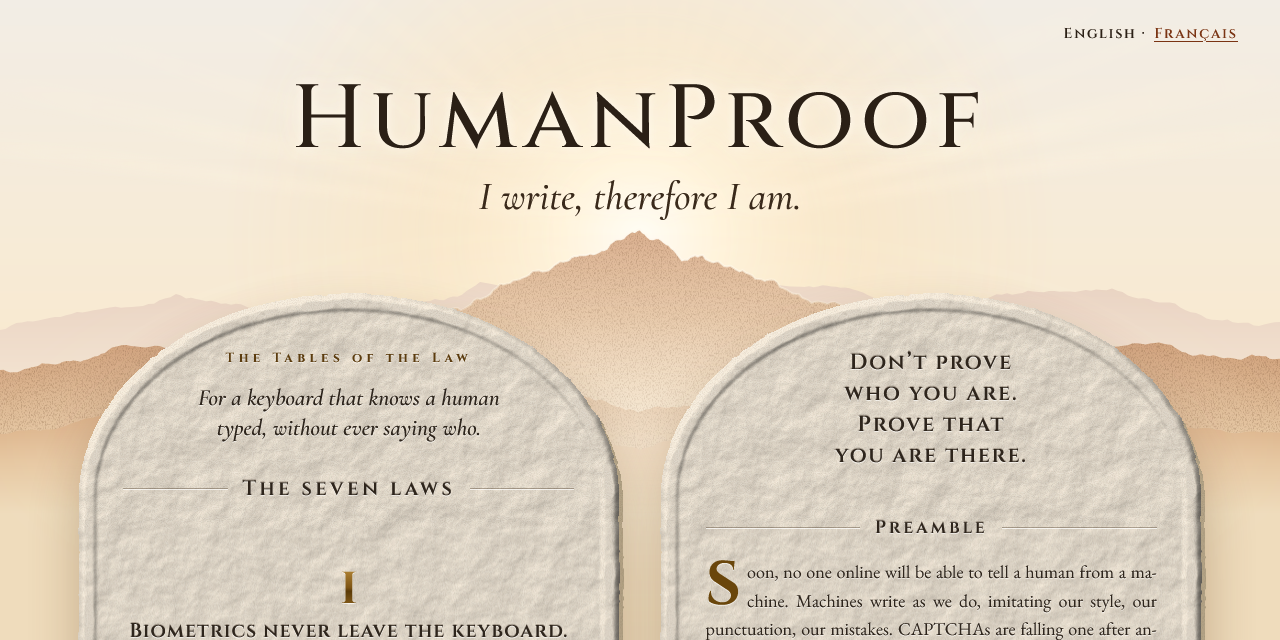
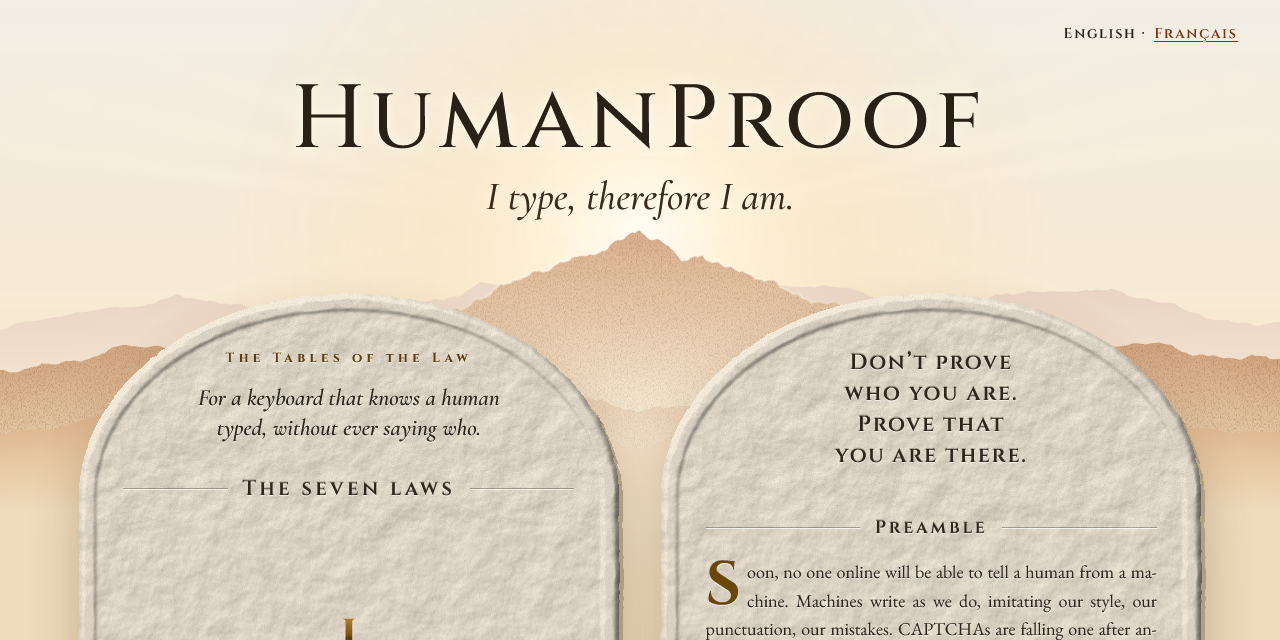
Slogan anglais : « I type, therefore I am » (le clavier prouve la frappe, pas la rédaction, comme le dit le §2) ; bannière anglaise refaite

Changed region(s): [[0.375, 0.2812, 0.625, 0.3438], [0.0938, 0.9688, 0.4375, 1.0], [0.25, 0.875, 0.2812, 0.9375]]

diff --git a/docs/en.html b/docs/en.html
@@ -6,9 +6,9 @@
   <meta http-equiv="Content-Security-Policy" content="default-src 'none'; style-src 'self'; font-src 'self'; img-src 'self'; base-uri 'none'; form-action 'none'">
   <meta name="referrer" content="no-referrer">
   <meta name="color-scheme" content="light">
-  <title>HumanProof — I write, therefore I am</title>
+  <title>HumanProof — I type, therefore I am</title>
   <meta name="description" content="A manifesto for a keyboard that knows a human typed, without ever saying who.">
-  <meta property="og:title" content="HumanProof — I write, therefore I am">
+  <meta property="og:title" content="HumanProof — I type, therefore I am">
   <meta property="og:description" content="A manifesto for a keyboard that knows a human typed, without ever saying who.">
   <meta property="og:type" content="website">
   <meta property="og:url" content="https://vpan-utbm.github.io/knock-knock/en.html">
@@ -21,7 +21,7 @@
   <header class="sky">
     <nav class="lang"><span aria-current="page">English</span>&nbsp;· <a href="index.html" hreflang="fr" lang="fr">Français</a></nav>
     <h1>HumanProof</h1>
-    <p class="tagline">I write, therefore I am.</p>
+    <p class="tagline">I type, therefore I am.</p>
   </header>
 
   <main class="tables">

diff --git a/tools/gen_pages.py b/tools/gen_pages.py
@@ -78,10 +78,10 @@ FR = dict(
 EN = dict(
     lang="en-GB", page="en.html", banner="banner-en.png", here="English", other="index.html", other_lang="fr",
     other_label="Français",
-    title="HumanProof — I write, therefore I am",
+    title="HumanProof — I type, therefore I am",
     description="A manifesto for a keyboard that knows a human typed, without ever saying who.",
     kicker="The Tables of the Law",
-    tagline="I write, therefore I am.",
+    tagline="I type, therefore I am.",
     subtitle="For a keyboard that knows a human typed, without ever saying who.",
     slogan="Don’t prove who you are. Prove that you are there.",
     laws_label="The seven laws",

diff --git a/README.md b/README.md
@@ -1,8 +1,8 @@
 <p align="center">
-  <img src="docs/banner-en.png" alt="HumanProof — I write, therefore I am. For a keyboard that knows a human typed, without ever saying who." width="800">
+  <img src="docs/banner-en.png" alt="HumanProof — I type, therefore I am. For a keyboard that knows a human typed, without ever saying who." width="800">
 </p>
 
-<p align="center"><b>I write, therefore I am.</b> · <i>J'écris, donc je suis.</i></p>
+<p align="center"><b>I type, therefore I am.</b> · <i>J'écris, donc je suis.</i></p>
 
 <p align="center"><a href="https://vpan-utbm.github.io/knock-knock/en.html"><b>Read the page</b></a> · <a href="https://vpan-utbm.github.io/knock-knock/"><b>Lire la page en français</b></a></p>
 

diff --git a/MANIFESTO-SHORT.md b/MANIFESTO-SHORT.md
@@ -1,6 +1,6 @@
 # HumanProof
 
-> ## I write, therefore I am.
+> ## I type, therefore I am.
 
 Soon, no one online will be able to tell a human from a machine. Machines write as we do. CAPTCHAs are
 falling. A measurement taken on the imitator's side proves nothing.

diff --git a/MANIFESTO.md b/MANIFESTO.md
@@ -1,6 +1,6 @@
 # HumanProof — Manifesto
 
-> ## I write, therefore I am.
+> ## I type, therefore I am.
 
 *For a keyboard that knows a human typed, without ever saying who.*
 
